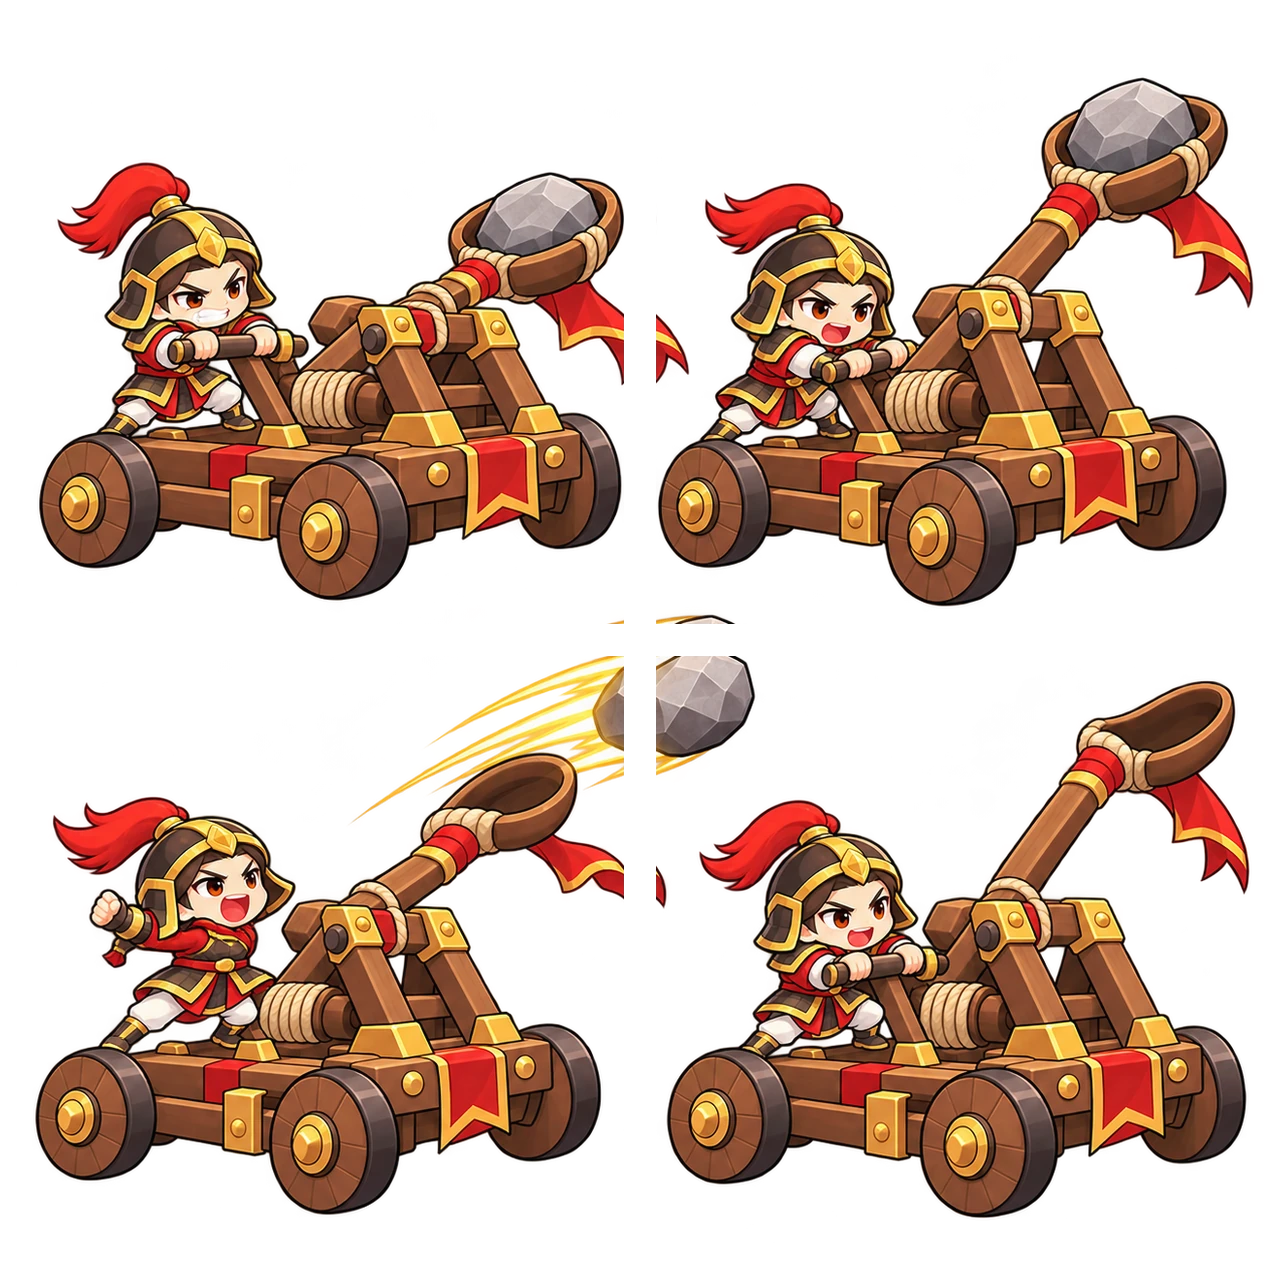
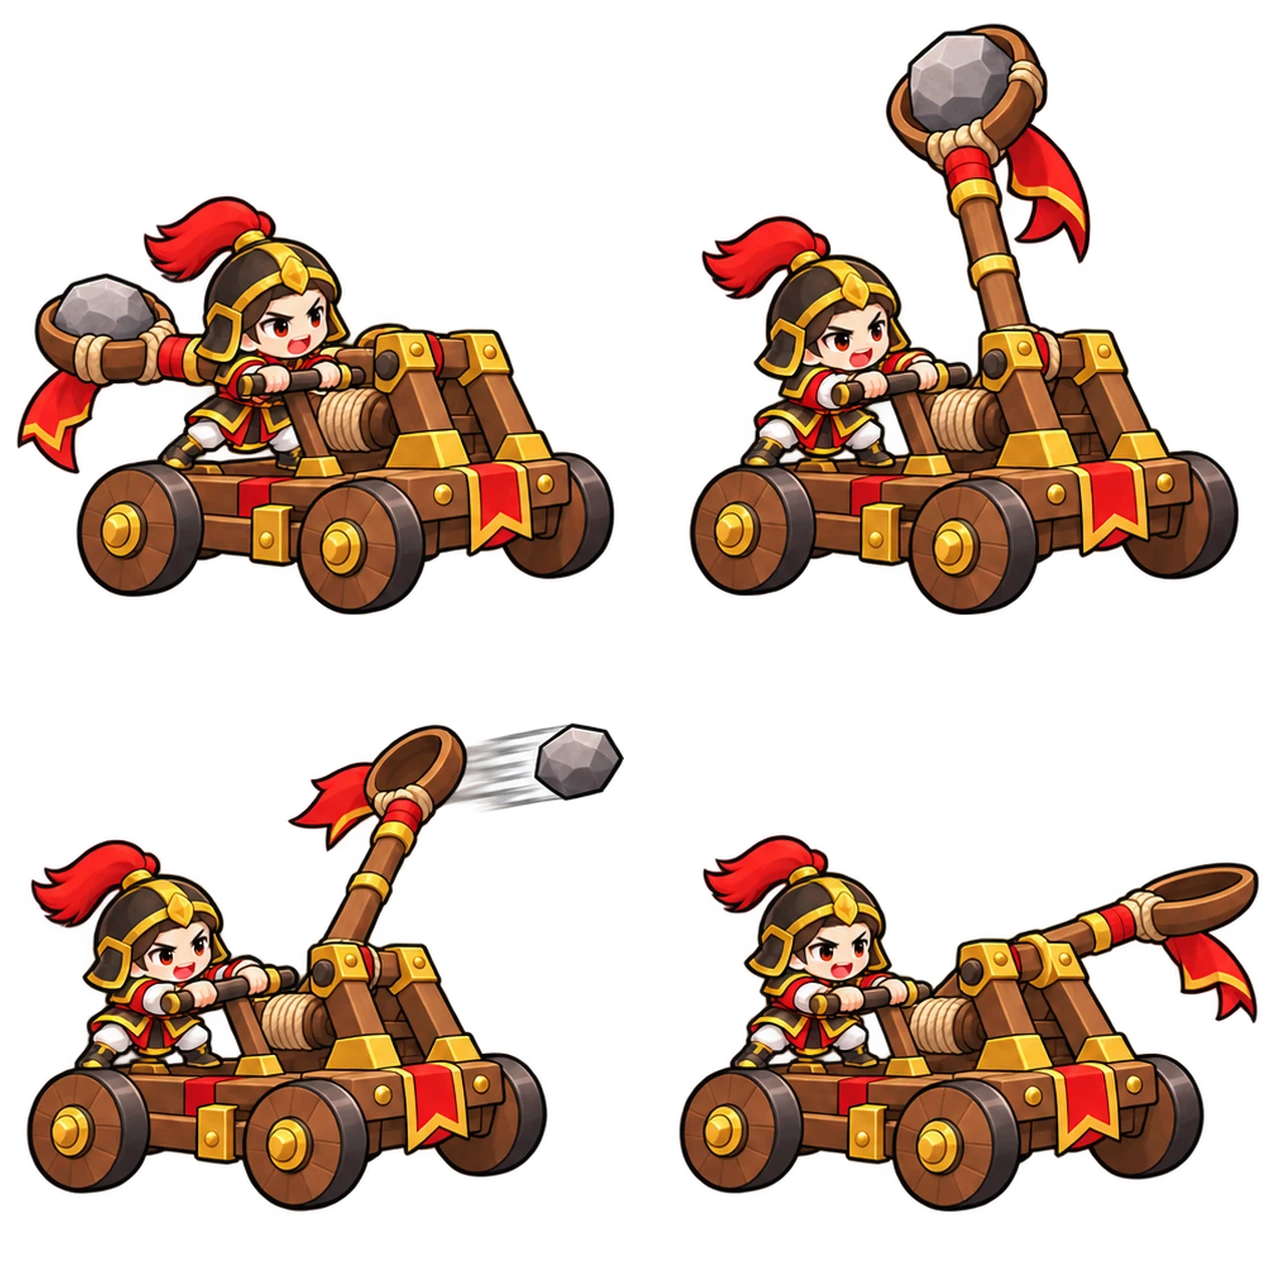
Redraw catapult attack with forward arm swing and projectile

diff --git a/CHANGELOG.md b/CHANGELOG.md
@@ -1,3 +1,8 @@
+## 2026-10-08 — 重製投石車前方投射
+- 替換 public/assets/units/catapult-attack.webp：四格依序為車尾蓄力、甩臂上升、向車頭前方拋射、前方止擋與回彈。石頭速度線位於石頭後方；保留原角色、車體與紅金配色。
+- 維持 640×640 每格與原載入路徑、敵方鏡像，不變更戰鬥數值。切格保留完整車輪、投射臂與石頭。
+- 驗證：四格互異、1280×1280 透明 WebP；npm test 106/106 通過。正式站仍需 Cloudflare 部署最新 main。
+
 ## 2026-10-08 — 七組四格攻擊動畫
 - 使用者授權依原始角色生成攻城車、投石車、斥候及劉備、曹操、孫權、董卓四格攻擊素材，透明 WebP，每格 640×640。主公加入金龍、赤雷、翡翠劍氣、烈焰效果。
 - 修改 public/src/app.js 與 phaser-combat-stage.js：主公動畫表、完整戰前預載、影格比例及敵方鏡像、避免 Canvas/Phaser 重複繪製。
